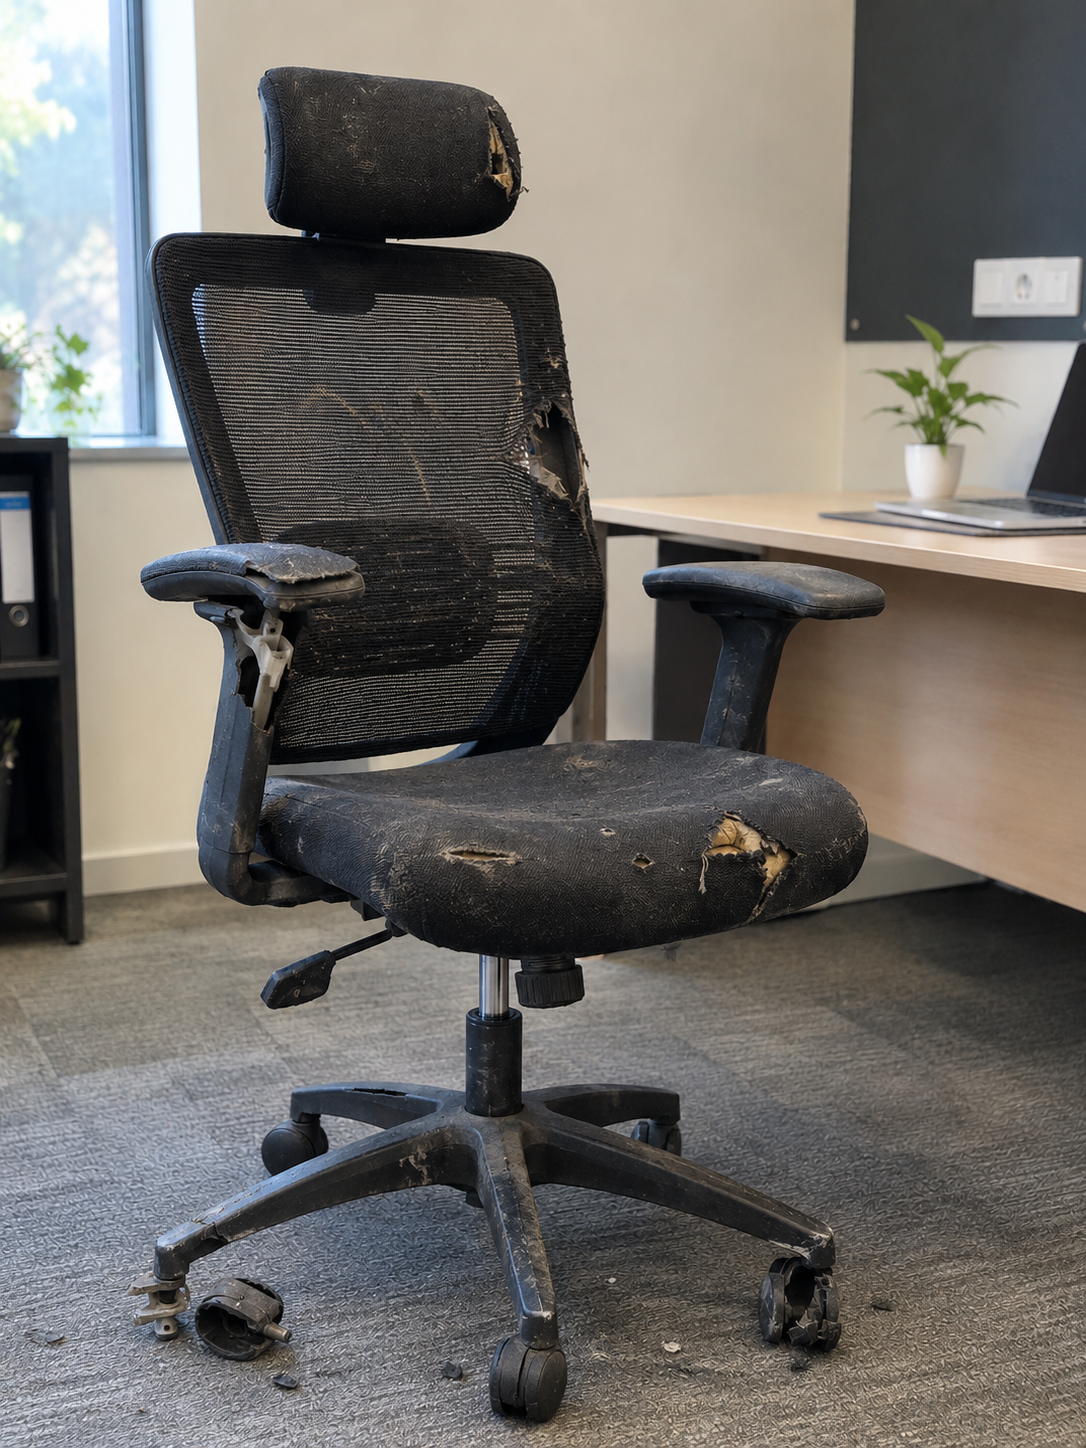
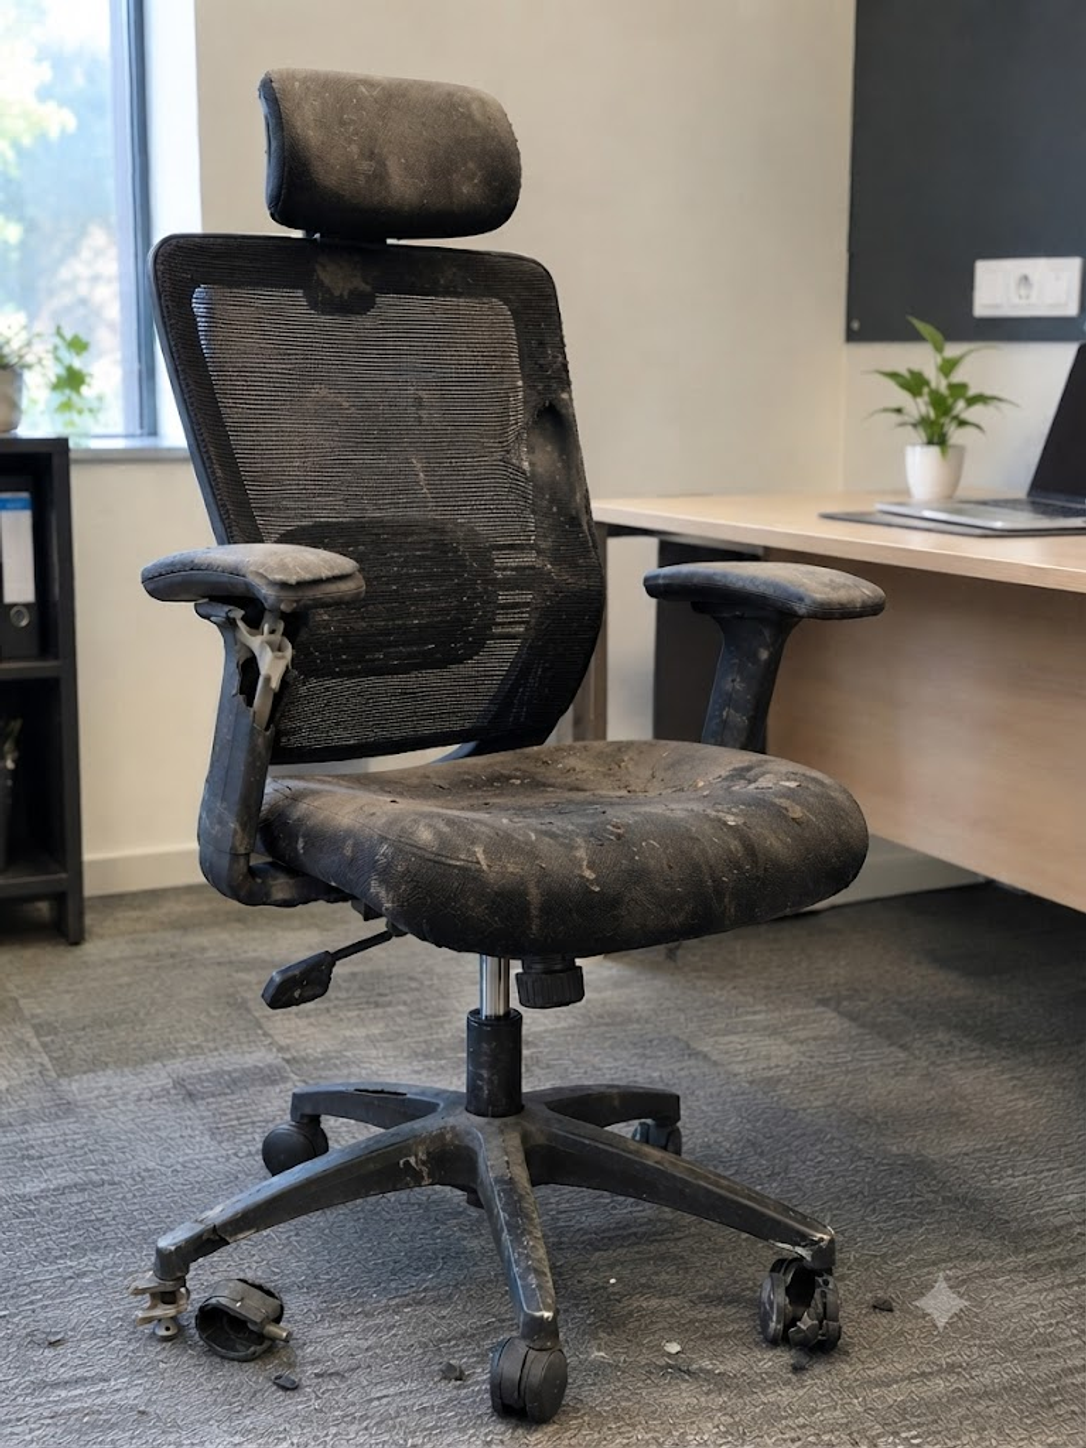
Update chair transformation before image

diff --git a/legacy/tools/make-illustrations.js b/legacy/tools/make-illustrations.js
@@ -225,7 +225,7 @@ const scenes = {
   // ---------- before / after ----------
   "work-1-before": [S43, (w, h) => { R = rng("w1"); return office(w, h, { dim: true }) + chair({ x: 600, y: 860, s: 1.55, seat: "#6b6156", back: "#6b6156", dirty: true }); }],
   "work-1-after": [S43, (w, h) => office(w, h) + chair({ x: 600, y: 860, s: 1.55, seat: "#5d6b7a", back: "#5d6b7a" }) + sparkles([[850, 240, 26], [900, 360, 14], [330, 300, 18]])],
-  "work-2-before": [S43, (w, h) => { R = rng("w2"); return office(w, h, { dim: true }) + chair({ x: 600, y: 860, s: 1.5, type: "exec", seat: "#3a342f", back: "#3a342f", frame: "#2a2420", torn: true, dirty: true }); }],
+  "work-2-before": [S43, (w, h) => { R = rng("w2"); return office(w, h, { dim: true }) + chair({ x: 600, y: 860, s: 1.5, type: "exec", seat: "#3a342f", back: "#3a342f", frame: "#2a2420", dirty: true }); }],
   "work-2-after": [S43, (w, h) => office(w, h) + chair({ x: 600, y: 860, s: 1.5, type: "exec", seat: "#1d2127", back: "#1d2127", frame: "#111" }) + sparkles([[860, 220, 26], [910, 340, 14], [330, 280, 18]])],
   "work-3-before": [S43, (w, h) => { R = rng("w3"); return office(w, h, { dim: true, floor: 0.6 }) + chair({ x: 600, y: 880, s: 2.6, seat: "#5b544c", back: "#5b544c", broken: true, dirty: true }); }],
   "work-3-after": [S43, (w, h) => office(w, h, { floor: 0.6 }) + chair({ x: 600, y: 880, s: 2.6, seat: "#1f4a72" }) + sparkles([[260, 700, 26], [960, 640, 18], [880, 780, 12]])],
